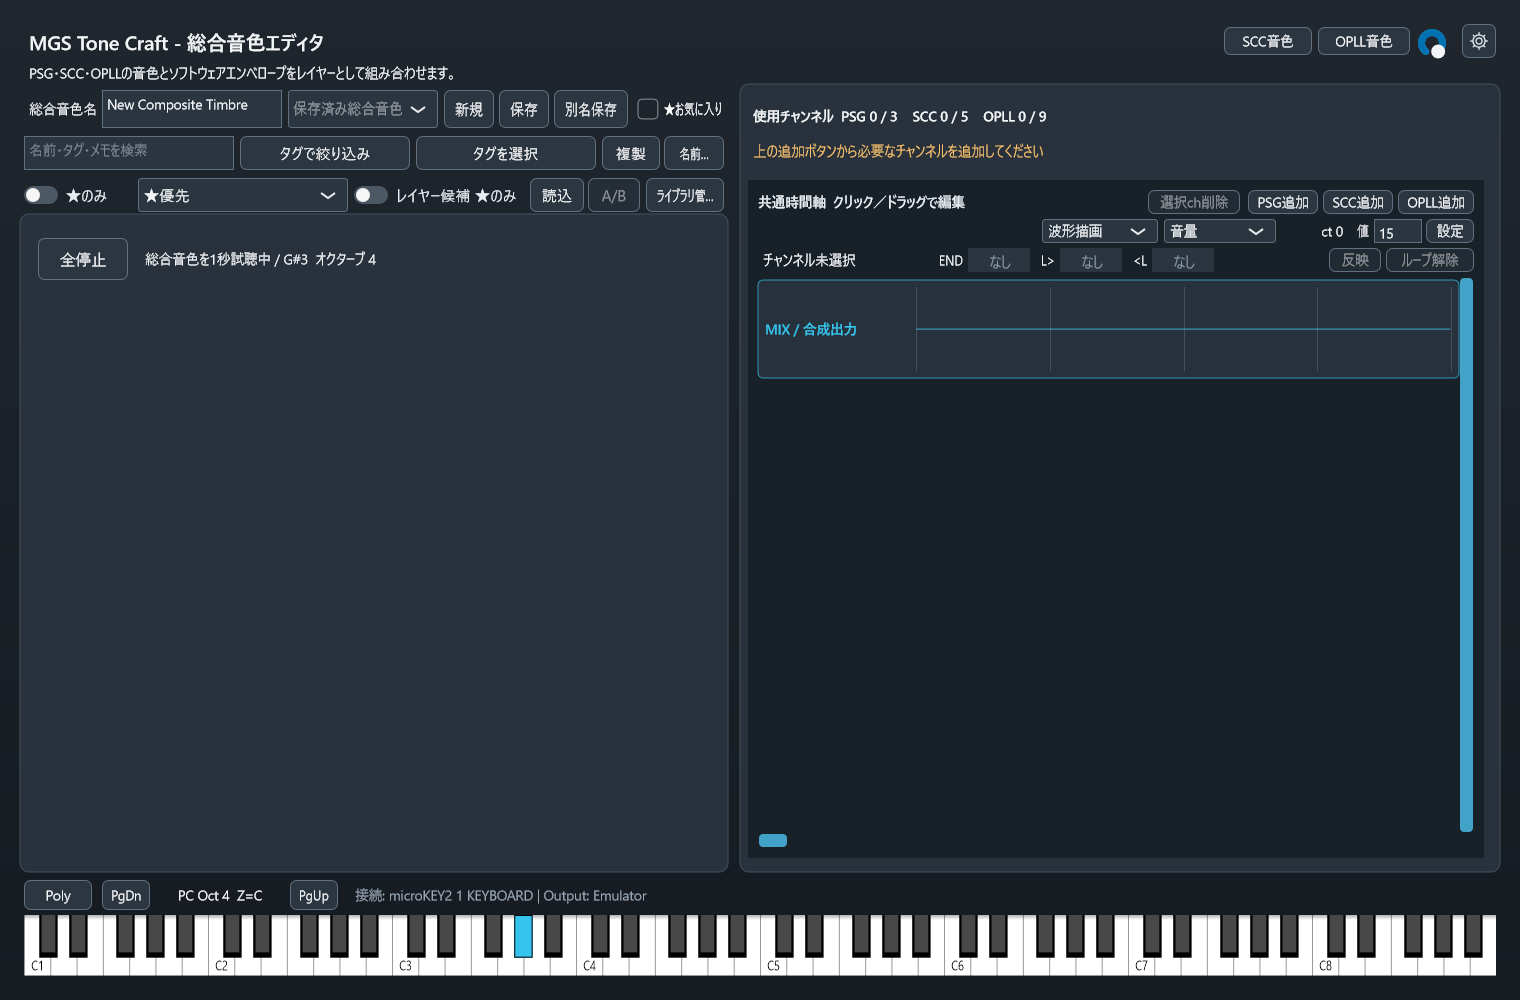
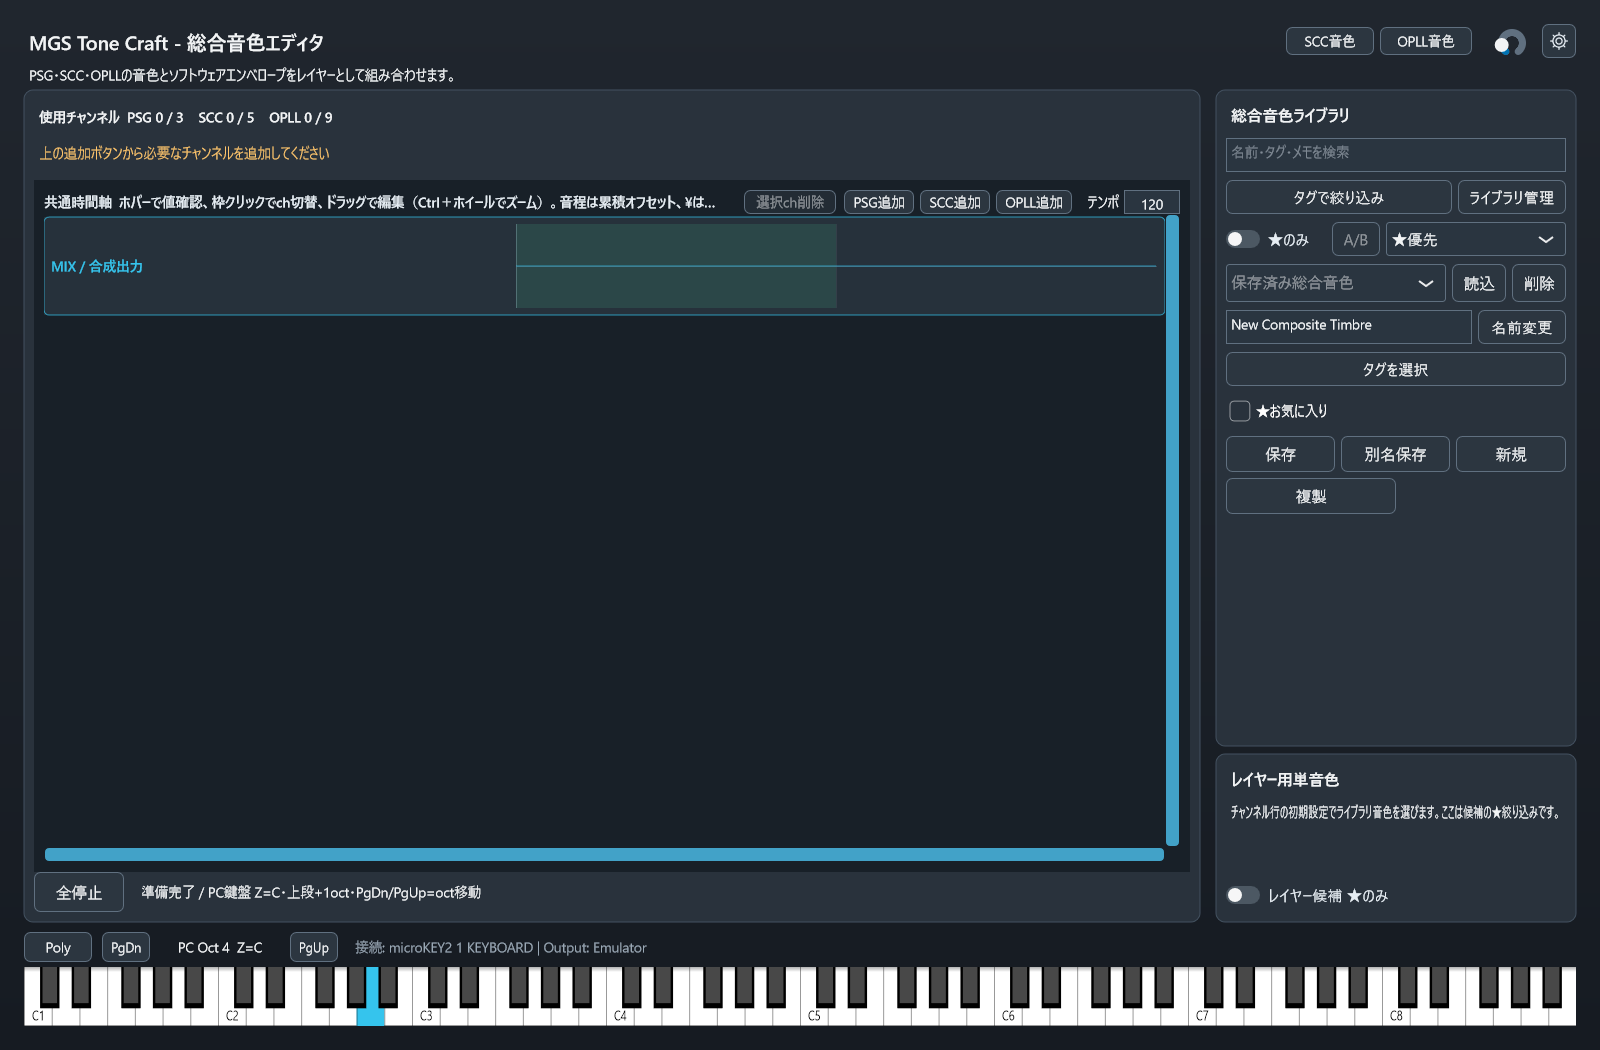
Prepare 0.215 release notes, changelog, and README screenshots.

Changed region(s): [[0.0, 0.031, 0.9895, 0.992], [0.0309, 0.248, 0.2474, 0.279], [0.8039, 0.031, 0.9895, 0.062]]

diff --git a/CHANGELOG.md b/CHANGELOG.md
@@ -19,16 +19,43 @@
 
 ## [Unreleased]
 
-### Fixed
+## [0.215] - 2026-08-15
 
-- 操作していないときに数秒フリーズすることがある問題: PC音声デバイスの異常からの自動復帰を別スレッドへ移し、復帰中もUIが反応するようにしました
-- 応答しない音声デバイスがあるとアプリの終了や出力切替が止まることがある問題: デバイスの停止待ちを有限にしました
-- 未保存の確認ダイアログがまれに表示されないままになる問題: マウス解放待ちに期限を設けました
+`0.165` 以降の公開 Alpha 向けまとめ（GitHub Releases 更新用）。
+
+### Added
+
+- **総合画面のソフトウェアエンベロープ編集**を大幅に拡充（チャンネル三段表示、共通カウントグリッド、音量／音程／`@`／`\`／休符、OPLL の TL／FB 自動など）。MGSC `@e` プレビュー（定義＋発音前トラック MML）
+- 複合音色の初期設定（休符・相対音程・音色番号／OPLL ROM `@0`～`@14`、テンポ、マイクロデチューンなど）とライブラリ保存形式の更新
+- 総合から割当単音色を開き、**総合出音を聴きながら** SCC／OPLL を編集する流れ
+- エンベロープ互換の公開ガイド（`docs/ENVELOPE_COMPAT.md`）と回帰用マニフェスト
+- ハング検知ログに処理名・経過時間・段階（検知／未回復／回復）を記録
+
+
 
 ### Changed
 
-- ハング検知ログ（`%LOCALAPPDATA%\MgsToneCraft\hang-*.log`）に、固まった時点でアプリが行っていた処理名と経過時間、および段階（検知／未回復／回復）を記録するようにしました
-- 参考資料に [MAmidiMEmoNEMO readMe](https://github.com/uniskie/MSX_DOCUMENTS/blob/main/MAmidiMEmoNEMO/readMe.md)（uniskie）を追加
+- 総合エディタのレイアウト（右ライブラリ、初期 1600×1050、ウィンドウをモニタ作業領域内へ収める）
+- 鍵盤反応と WASAPI 低遅延寄りの初期化、画面切替／未保存確認の応答改善
+
+
+
+### Fixed
+
+- 操作していないときに数秒フリーズすることがある問題（PC 音声デバイス異常からの自動復帰を別スレッドへ）
+- 応答しない音声デバイスがあると終了や出力切替が止まる問題（停止待ちの有限化）
+- タイトルバーでの画面切替・フォーカス／ショートカット周り
+- 未保存確認ダイアログが表示されないままになることがある問題
+- ウィンドウがタスクバーに食い込む問題（外接矩形での作業領域クランプ）
+
+
+
+### Notes
+
+- 引き続き Alpha。複合エンベロープの一部操作（カウント命令の完全直列化、`[` 前後配置、`.MUS` フル出力など）は未完成・未保証
+- 総合／ライブラリの保存形式に後方互換の保証はない（形式番号が進んでいます）
+
+
 
 ## [0.165] - 2026-08-11
 
@@ -47,12 +74,16 @@
 - Windows アプリアイコン、About の著作権／GitHub／X リンク
 - ハング検知ログ（`%LOCALAPPDATA%\MgsToneCraft\hang-*.log`）
 
+
+
 ### Changed
 
 - 鍵盤 `C1`～`B8` を MGSDRV／MGSC の `o1c`～`o8b` 対応へ統一
 - UI フォント・配色・ホバー／選択ハイライトの整理（緑アクセント）
 - SCC／OPLL エディタ初期サイズとライブラリパネル配置の見直し
 - 埋め込みライブラリの操作配置（読込・削除・名前変更など）。複製はライブラリ管理側
+
+
 
 ### Fixed
 
@@ -62,10 +93,14 @@
 - A/B 表示の文字化け
 - OPLL キーオフ後のハング対策（強制消音秒数）
 
+
+
 ### Notes
 
 - 引き続き Alpha。総合画面の複合エンベロープや曲用フル `.MUS` は未保証
 - ライブラリ保存形式に後方互換の保証はない（旧形式は読めない場合あり）
+
+
 
 ## [0.101] - 2026-08-09
 
@@ -79,7 +114,10 @@
 - WAV／Audacity からの近似変換、SCC↔OPLL 相互近似変換
 - Windows x64 配布 ZIP（`mgstc.exe` とライセンス一式）
 
+
+
 ### Notes
 
 - Alpha（機能限定）。総合画面の複合エンベロープや曲用フル `.MUS` 出力は未保証
 - 音色ライブラリの保存形式に後方互換の保証はない
+

diff --git a/README.md b/README.md
@@ -47,13 +47,14 @@ MGSCで使える定義テキストの作成を支援します。
 - **OPLL単音色**: MOD／CARパラメーター編集、タグ付きライブラリ保存、`@v`定義の確認・入出力
 - **タグ検索・管理**: 78種類の標準タグと独自タグを複数設定し、複数タグのAND条件またはタグだけで絞り込み。独自タグは全ライブラリを対象に名前変更・統合・削除
 - **ライブラリ管理**: ★お気に入り、★優先／最近使用順、名前変更・参照安全な削除、選択時試聴とA/B比較
-- **複合音色との連携**: 割当済みSCC／OPLL音色を対応エディタで開き、保存更新を複合音色へ反映
+- **複合音色との連携**: 割当済みSCC／OPLL音色を対応エディタで開き、総合出音を聴きながら編集・保存反映
+- **総合のエンベロープ編集（開発中）**: 共通時間軸での音量／音程／休符など。`@e` プレビューあり（一部操作は未完成）
 - **試聴**: 画面鍵盤、PCキーボード、MIDI入力、内蔵エミュレータによる発音
 - **実機演奏**: MAmi-VSIF dongle／MAmidiMEmo 経由で MSX 実機へ出力して発音できる
 - **変換**: WAV／Audacityからの近似変換、SCC↔OPLLの相互近似変換
 
-総合画面の複合エンベロープ編集や、曲用の本格的な`.MUS`出力などは
-Alphaでは未保証です（画面上に要素があっても、完成機能として約束しません）。
+総合画面の複合エンベロープは Alpha で大きく進んでいますが、完了機能としては未保証です
+（カウント命令の完全な直列化や曲用の本格的な`.MUS`出力など、画面上にあっても約束しません）。
 
 音色ライブラリは**現状でも保存・読込はできます**が、Alpha版の保存形式に後方互換性はありません。
 使用履歴とお気に入りに対応した現行形式より古いライブラリファイルは読み込めません。今後も形式・操作・

diff --git a/docs/RELEASE_NOTES_v0.215.md b/docs/RELEASE_NOTES_v0.215.md
@@ -1,0 +1,30 @@
+# GitHub Release notes 下書き — v0.215
+
+公開アップロード時に Release 本文へ貼る用（バイナリ未アップロード）。
+
+```
+Alpha update (0.215).
+
+## Added
+- Major progress on composite software-envelope editing (@e preview, timeline UI)
+- Composite initial settings (rests, relative pitch, OPLL ROM @0–@14, tempo, …)
+- Edit assigned SCC/OPLL while hearing the composite output
+- Richer hang logs (activity name, stage: detected / still-hung / recovered)
+
+## Changed
+- Composite layout (right library, 1600×1050, clamp windows to the monitor work area)
+- Keyboard / WASAPI responsiveness and window switching polish
+- Credits: uniskie MAmidiMEmoNEMO readMe
+
+## Fixed
+- Idle multi-second freezes during PC-audio device recovery
+- Hang on quit / output switch with a stuck audio device
+- Title-bar focus / switching and unsaved-dialog edge cases
+- Windows overlapping the taskbar
+
+## Notes
+- Still Alpha. Full count-command serialization, `[` zone editing, and full .MUS export remain unfinished
+- Composite / library save formats have no backward-compatibility promise
+
+See CHANGELOG.md for details.
+```
